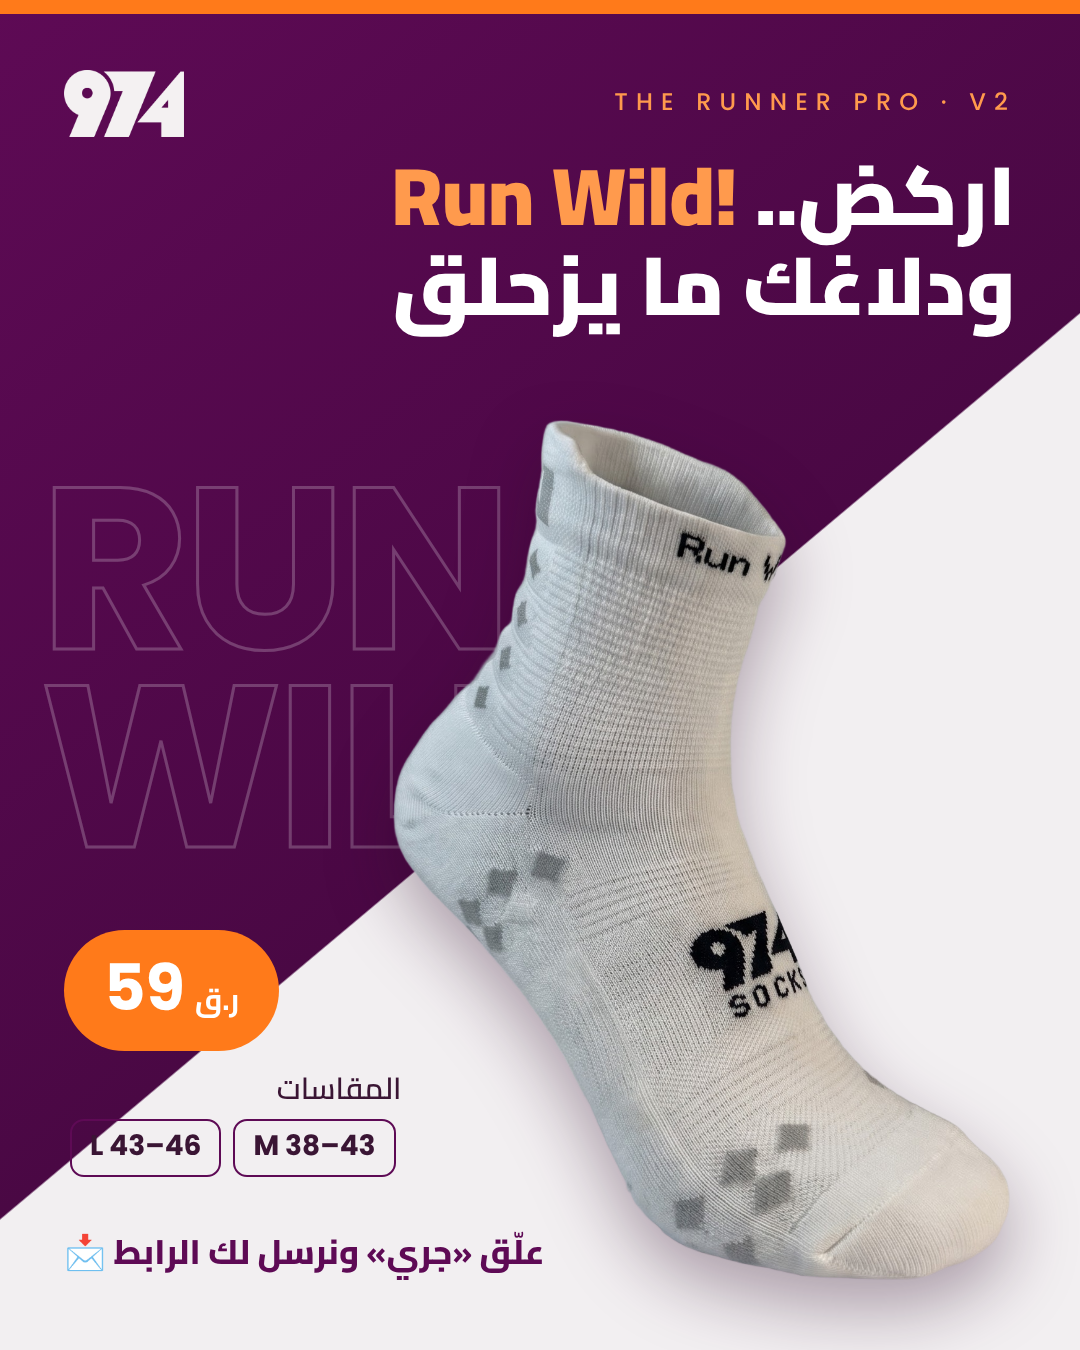
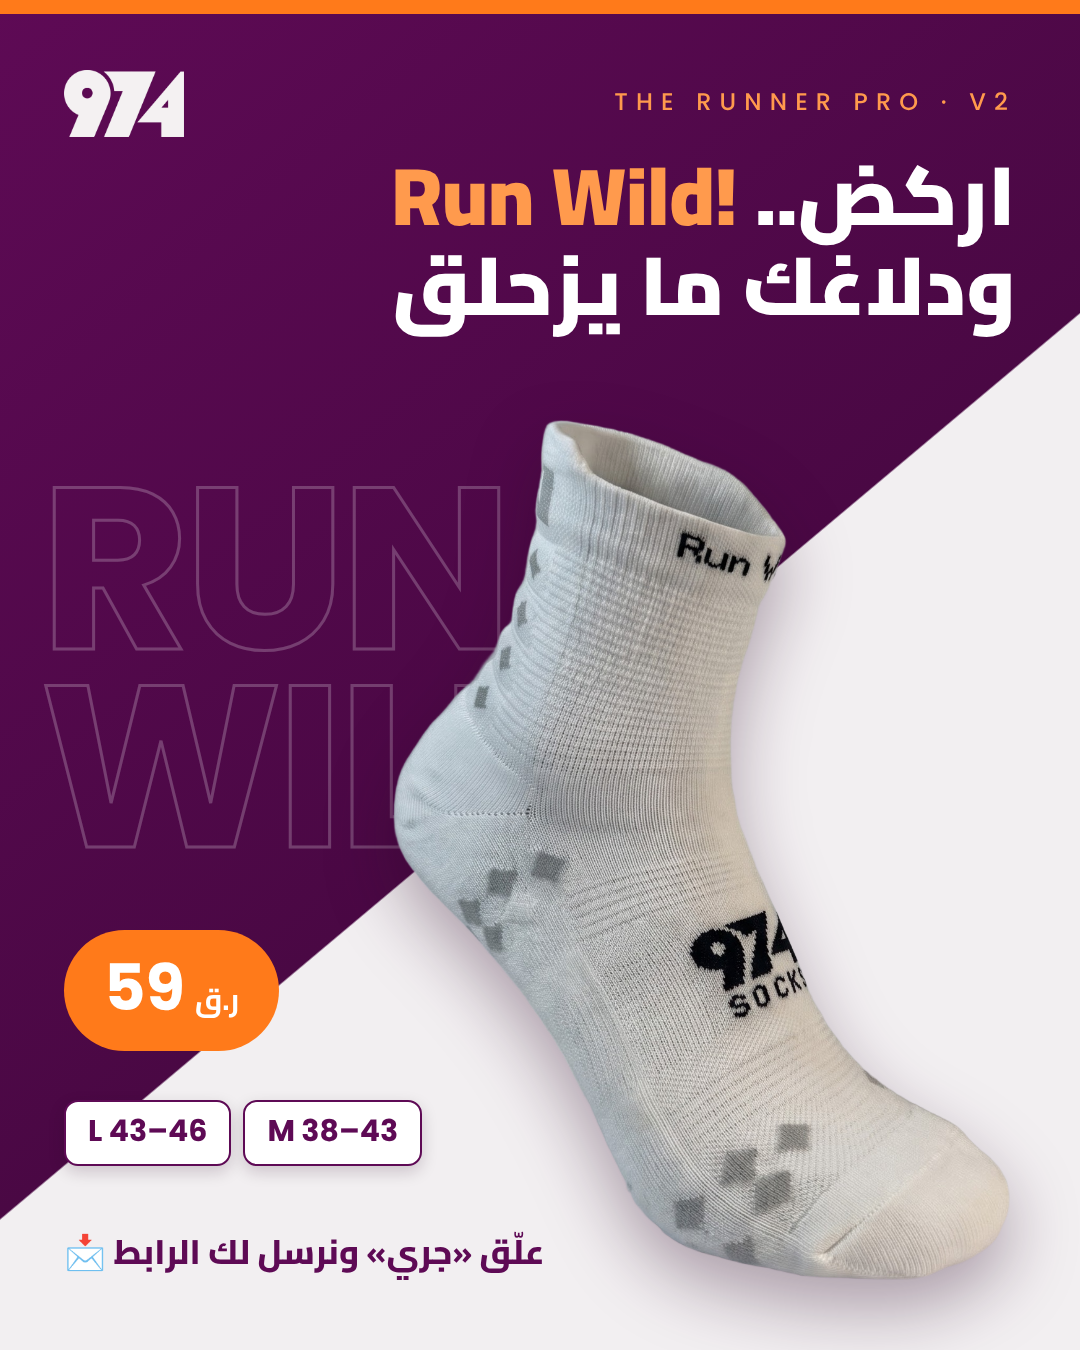
Runner V2: clearer size pills, story spacing
Claude-Session: https://claude.ai/code/session_01K6HDWNrArsGSJekW1VcEzV

Changed region(s): [[0.0611, 0.7778, 0.3972, 0.8711]]

diff --git a/posts/2026-11/runner-v2/src/story.html b/posts/2026-11/runner-v2/src/story.html
@@ -16,7 +16,7 @@ body{width:1080px;overflow:hidden;position:relative;background:#F2EFF1;font-fami
 .pill{display:inline-flex;align-items:baseline;gap:10px;background:#FF7A1A;color:#fff;border-radius:999px;padding:10px 40px 16px;font:800 64px Poppins}
 .pill i{font:700 30px Cairo;font-style:normal}
 .sz{font:600 30px Cairo;direction:rtl;color:#3A1534}
-.sz span{display:inline-block;border:2px solid #5E0A55;border-radius:14px;padding:4px 18px 8px;margin:0 6px;font:600 28px Poppins;direction:ltr}
+.sz span{display:inline-block;background:#fff;border:2px solid #5E0A55;color:#5E0A55;border-radius:14px;padding:6px 22px 10px;margin:0 6px;font:700 30px Poppins;direction:ltr;box-shadow:0 6px 16px rgba(40,5,35,.18)}
 .cta{font:800 34px Cairo;direction:rtl;color:#5E0A55}
 .f{position:absolute;direction:rtl;text-align:right}
 .f b{display:block;font:800 36px Cairo;color:#5E0A55}
@@ -31,7 +31,7 @@ body{width:1080px;overflow:hidden;position:relative;background:#F2EFF1;font-fami
 <div class="abs h" style="left:0;right:0;top:400px;text-align:center">اركض.. <b><bdi dir="ltr">Run Wild!</bdi></b><br>ودلاغك ما يزحلق</div>
 <img class="abs sh" src="cut/sideR.png" style="left:230px;top:640px;height:900px">
 
-<div class="abs" style="left:0;right:0;top:1560px;text-align:center"><div class="pill">59 <i>ر.ق</i></div></div>
-<div class="abs sz" style="left:0;right:0;top:1680px;text-align:center"><span>M 38–43</span><span>L 43–46</span></div>
-<div class="abs cta" style="left:0;right:0;top:1760px;text-align:center">علّق «جري» ونرسل لك الرابط 📩</div>
+<div class="abs" style="left:0;right:0;top:1530px;text-align:center"><div class="pill">59 <i>ر.ق</i></div></div>
+<div class="abs sz" style="left:0;right:0;top:1690px;text-align:center"><span>M 38–43</span><span>L 43–46</span></div>
+<div class="abs cta" style="left:0;right:0;top:1785px;text-align:center">علّق «جري» ونرسل لك الرابط 📩</div>
 </body></html>

diff --git a/posts/2026-11/runner-v2/src/hero.html b/posts/2026-11/runner-v2/src/hero.html
@@ -16,7 +16,7 @@ body{width:1080px;overflow:hidden;position:relative;background:#F2EFF1;font-fami
 .pill{display:inline-flex;align-items:baseline;gap:10px;background:#FF7A1A;color:#fff;border-radius:999px;padding:10px 40px 16px;font:800 64px Poppins}
 .pill i{font:700 30px Cairo;font-style:normal}
 .sz{font:600 30px Cairo;direction:rtl;color:#3A1534}
-.sz span{display:inline-block;border:2px solid #5E0A55;border-radius:14px;padding:4px 18px 8px;margin:0 6px;font:600 28px Poppins;direction:ltr}
+.sz span{display:inline-block;background:#fff;border:2px solid #5E0A55;color:#5E0A55;border-radius:14px;padding:6px 22px 10px;margin:0 6px;font:700 30px Poppins;direction:ltr;box-shadow:0 6px 16px rgba(40,5,35,.18)}
 .cta{font:800 34px Cairo;direction:rtl;color:#5E0A55}
 .f{position:absolute;direction:rtl;text-align:right}
 .f b{display:block;font:800 36px Cairo;color:#5E0A55}
@@ -30,6 +30,6 @@ body{width:1080px;overflow:hidden;position:relative;background:#F2EFF1;font-fami
 <div class="abs h" style="right:64px;top:150px;text-align:right">اركض.. <b><bdi dir="ltr">Run Wild!</bdi></b><br>ودلاغك ما يزحلق</div>
 <img class="abs sh" src="cut/sideR.png" style="right:70px;top:420px;height:860px">
 <div class="abs" style="left:64px;top:930px"><div class="pill">59 <i>ر.ق</i></div></div>
-<div class="abs sz" style="left:64px;top:1060px">المقاسات<br><span>M 38–43</span><span>L 43–46</span></div>
+<div class="abs sz" style="left:58px;top:1100px"><span>M 38–43</span><span>L 43–46</span></div>
 <div class="abs cta" style="left:64px;top:1220px">علّق «جري» ونرسل لك الرابط 📩</div>
 </body></html>
